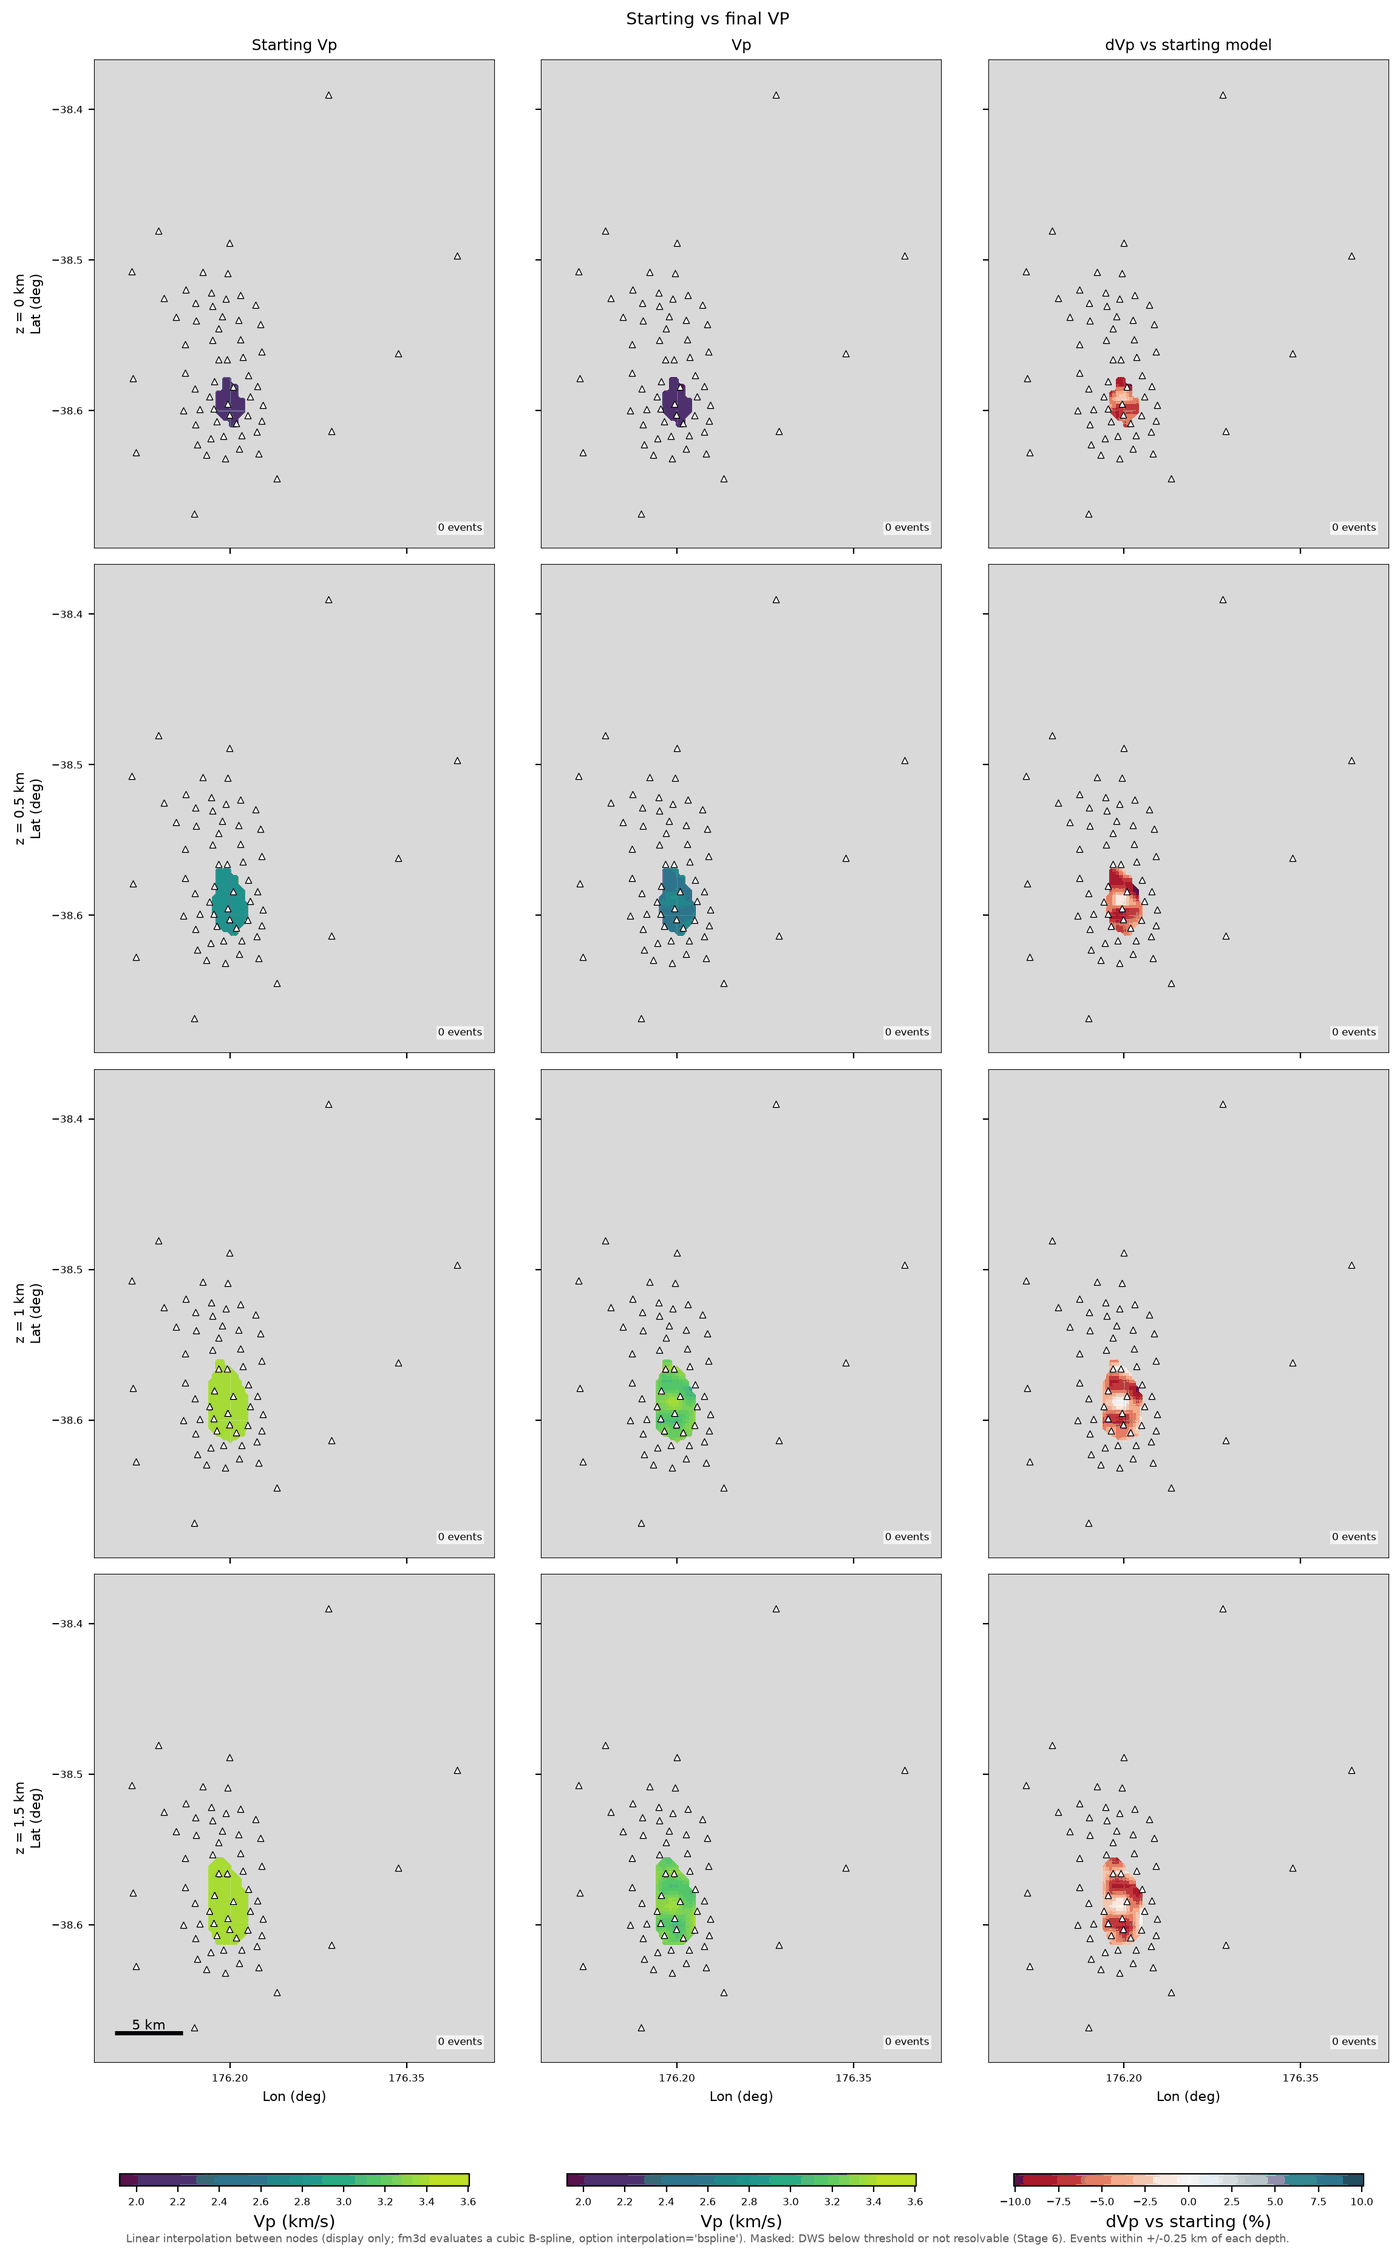
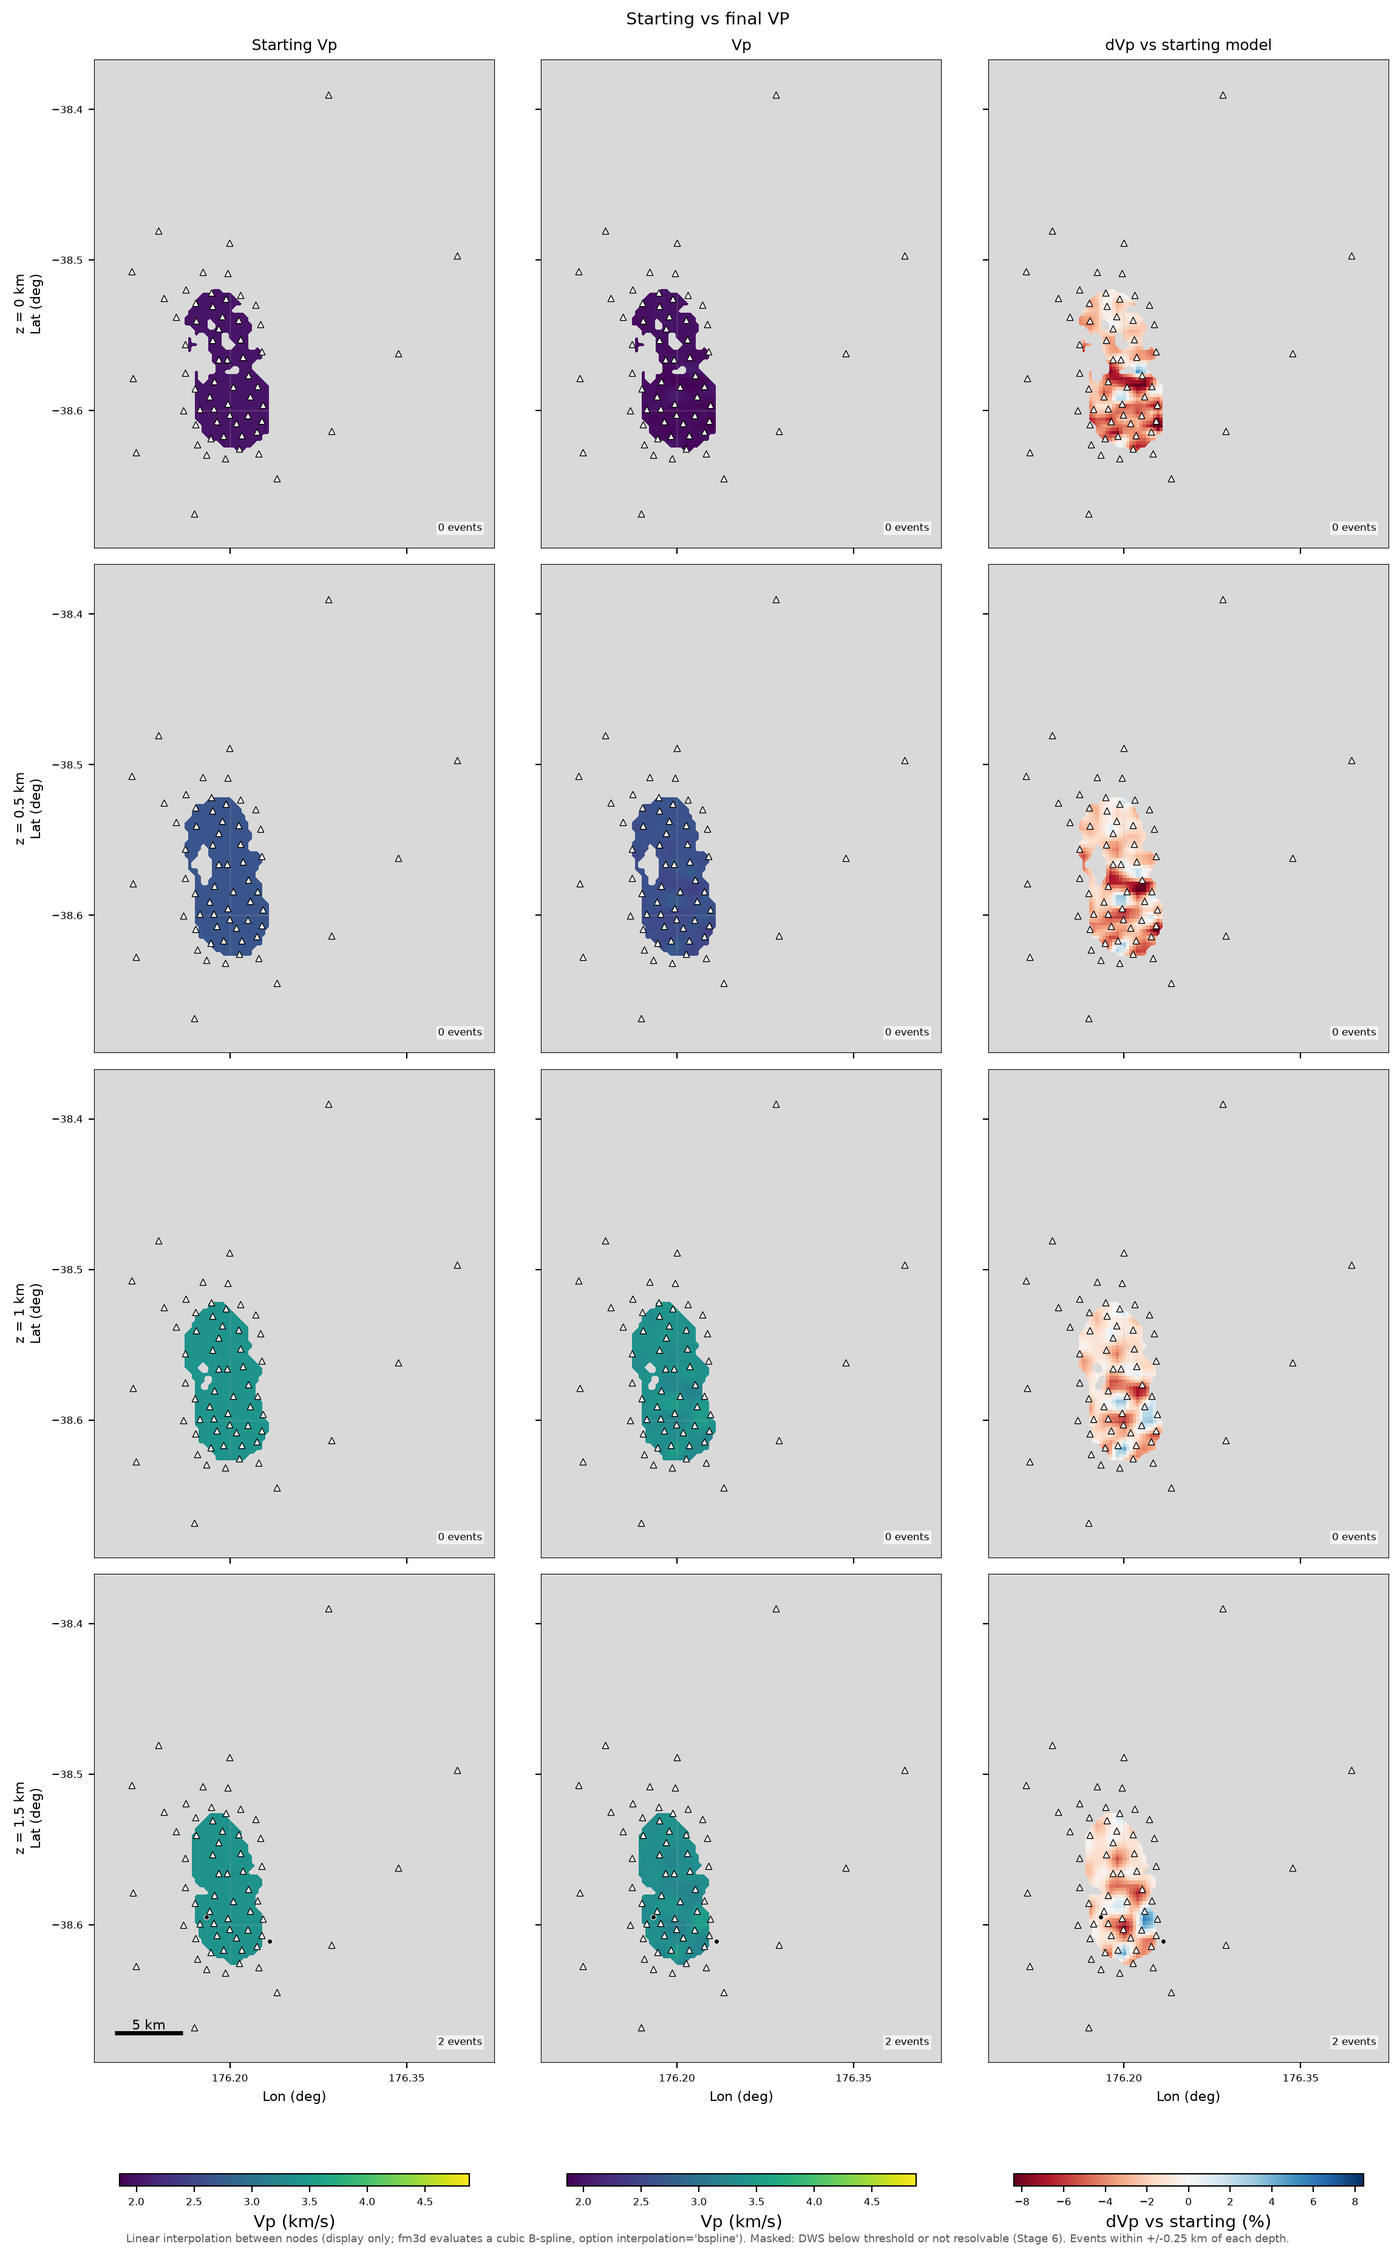
Final consistent project rerun: refresh tutorial, figures and e2e baseline; absolute OSV_TOOLS_DIR (osv-3p8.9)

diff --git a/tests/test_tools.py b/tests/test_tools.py
@@ -173,3 +173,11 @@ def test_venv_prefix_search(tmp_path, monkeypatch):
     exe = make_exe(tmp_path / "venv" / "bin" / "osv-tools", "velest", "exit 0")
     monkeypatch.setattr("sys.prefix", str(tmp_path / "venv"))
     assert which_tool("velest") == exe
+
+
+def test_relative_tools_dir_is_absolute(tmp_path, monkeypatch):
+    make_exe(tmp_path / "rel_bin", "velest", "exit 0")
+    monkeypatch.chdir(tmp_path)
+    monkeypatch.setenv("OSV_TOOLS_DIR", "rel_bin")
+    p = which_tool("velest")
+    assert p.is_absolute() and p.name == "velest"

diff --git a/src/osv/tools.py b/src/osv/tools.py
@@ -170,7 +170,7 @@ def _is_exec(p: Path) -> bool:
 def _search_dirs() -> list[Path]:
     dirs: list[Path] = []
     if os.environ.get(ENV_TOOLS_DIR):
-        dirs.append(Path(os.environ[ENV_TOOLS_DIR]).expanduser())
+        dirs.append(Path(os.environ[ENV_TOOLS_DIR]).expanduser().resolve())
     if os.environ.get("CONDA_PREFIX"):
         dirs.append(Path(os.environ["CONDA_PREFIX"]) / "bin" / "osv-tools")
     # Environment the interpreter runs from (venv installs by install.sh --venv work

diff --git a/docs/tutorial.md b/docs/tutorial.md
@@ -144,16 +144,16 @@ observed rays with `fm3d` as a forward check.
 | Propagation grid | 55 x 223 x 184 (2.26 M nodes, 0.167 km) |
 | Sources / receivers / P observations | 65 / 62 / 1847 |
 | Vp range | 2.02-5.01 km/s |
-| Forward RMS of the starting model | 0.133 s (0.042 s after removing the mean of +0.12 s) |
+| Forward RMS of the starting model | 0.056 s (0.035 s after removing the mean of +0.043 s) |
 
 ![Vp slices of the starting model](img/build_vp_slices.png)
 
 Look at: `grid_geometry`, `vp_slices`, `section_*`, and above all the forward-check figures
 `residual_histograms`, `residual_distance` and `station_residuals`. A starting model should
-fit the picks about as well as VELEST does (0.042 s here once the mean offset is removed); a
+fit the picks about as well as VELEST does (0.042 s; here 0.056 s, or 0.035 s once the mean offset is removed); a
 much worse fit means a problem with coordinates, the depth datum or station delays. Here the
-mean residual is +0.12 s, which the *residual_bias* warning flags; the inversion in Stage 4 takes
-the RMS from 133 to 57 ms. Details: [Stage 3](stage3_model.md).
+mean residual is +0.043 s, which the *residual_bias* warning flags; the inversion in Stage 4 takes
+the RMS from 56 to 33 ms. Details: [Stage 3](stage3_model.md).
 
 Typical warnings:
 
@@ -161,9 +161,9 @@ Typical warnings:
   the data cannot constrain such a fine grid; the regularisation will do most of the work.
 * *"21 receiver(s) were above the interpolated surface; surface lifted locally"* - station
   elevations versus the smoothed surface (`model3d.surface_smoothing_km`).
-* *"7 P residuals beyond 5 robust standard deviations"* - look at the stations involved.
-* *"P residuals have mean +0.120 s"* and *"mean P residuals correlate with the VELEST station
-  delays with r = 0.18"* - the starting model is systematically fast for these picks; see
+* *"6 P residuals beyond 5 robust standard deviations"* - look at the stations involved.
+* *"P residuals have mean +0.043 s"* and *"mean P residuals correlate with the VELEST station
+  delays with r = 0.15"* - the starting model is systematically fast for these picks; see
   [borehole stations and station delays](troubleshooting.md#borehole-stations-and-station-delays)
   for why the VELEST delays are still applied.
 
@@ -181,10 +181,10 @@ inversion with the chosen values (or the ones you fix in `fmtomo`) and relocates
 | | Result |
 |---|---|
 | Chosen damping / smoothing (P) | 0.05 / 10 (maximum curvature, 14 sweep runs) |
-| RMS start to final | 133 to 56.7 ms (57.4% misfit reduction, 81.9% variance reduction) |
-| Reduced chi-squared | 10.3 |
-| Median hypocentre shift | 0.30 km |
-| Covered fraction of nodes (DWS) | 2.7% |
+| RMS start to final | 56.3 to 32.6 ms (42.1% misfit reduction, 66.7% variance reduction) |
+| Reduced chi-squared | 2.8 |
+| Median hypocentre shift | 0.11 km |
+| Covered fraction of nodes (DWS) | 2.6% |
 
 ![L-curve for damping](img/tradeoff_lcurve_damping.png)
 
@@ -200,11 +200,11 @@ Typical warnings:
 * *"the corner (0.05) is next to the edge of the swept range 0.01..1000"* and the same for the
   smoothing (10, range 1..1000) - the L-curve corner may lie outside the sweep; widen it or set
   the values yourself.
-* *"12 of 14 sweep runs still changed their misfit by more than 2%"* - the sweep iterations are
+* *"14 of 14 sweep runs still changed their misfit by more than 2%"* - the sweep iterations are
   few (`fmtomo.tradeoff.iterations`); the L-curve is indicative.
 * *"misfit increased after iteration 3"* - the linearised step overshoots in the last
   iterations; raise the damping or the smoothing, or stop earlier.
-* *"reduced chi-squared is 10.31, not near 1"* - the stated pick uncertainties are smaller than
+* *"reduced chi-squared is 2.82, not near 1"* - the stated pick uncertainties are smaller than
   the achievable fit; the inversion is an RMS reduction, not a statistical fit.
 
 ## Stage 5: analyse the inversion (`osv analyse`, 11 s)
@@ -216,14 +216,14 @@ osv analyse -c config.yaml
 Computes perturbation statistics, produces the figures and the exports (NetCDF, CSV, VTK) and masks everything the data cannot see (`plotting.dws_mask_threshold`).
 
 Look at: `slices_vp`, `section_a_a`, `compare_start_final_vp`, `variance_reduction`,
-`residual_vs_azimuth` and `station_residual_map`. Only 2.7% of the Vp volume has DWS of at least
+`residual_vs_azimuth` and `station_residual_map`. Only 2.6% of the Vp volume has DWS of at least
 0.1 here, so most of the model is masked; that is the data, not a bug. After running Stage 6, run
 `osv plot analyse -c config.yaml` to add the `_resolvable` figures that show only what the
 resolution tests recovered. Details: [Stage 5](stage5_analysis.md).
 
 Anomalies in the shallow (to about 2 km) core of the array are the only part of the model that
 passes both the DWS mask and the resolution tests; this is the perturbation relative to the 1-D
-model, masked to the resolvable volume (0.3% of all nodes):
+model, masked to the resolvable volume (1.4% of all nodes):
 
 ![dVp relative to the 1-D model, resolvable volume only](img/analyse_dvp_resolvable.png)
 
@@ -241,8 +241,8 @@ regularisation. Six tests ran, all succeeded.
 
 | | Result |
 |---|---|
-| Covered nodes (P) | 2350 |
-| Resolved fraction of covered nodes | 28% at 2 km, 51% at 3 km (shallower than 2.1 km: 40% / 63%; 2.1-5.3 km: 8% / 30%) |
+| Covered nodes (P) | 2257 |
+| Resolved fraction of covered nodes | 26% at 2 km, 50% at 3 km (shallower than 2.1 km: 36% / 61%; 2.1-5.3 km: 5% / 28%) |
 | Median resolved scale | 2 km (smallest anomaly of interest 1.5 km) |
 
 ![Resolved scale](img/resolution_resolved_scale.png)
@@ -265,16 +265,16 @@ model, using the same picks.
 
 | | Result |
 |---|---|
-| Median RMS, 1-D / 3-D | 20.9 / 15.7 ms (improvement 7.3 ms, 35%) |
-| Events better / worse in 3-D | 83% / 17% |
-| Wilcoxon p-value | 0.064 (one-sided 0.032) |
+| Median RMS, 1-D / 3-D | 20.9 / 15.8 ms (improvement 7.8 ms, 37%) |
+| Events better / worse in 3-D | 83% / 8% (one tie) |
+| Wilcoxon p-value | 0.027 (one-sided 0.013) |
 
 ![1-D versus 3-D RMS](img/validation_rms_scatter.png)
 
 Points below the 1:1 line in `validation_rms_scatter` are events that fit better in 3-D. A low
 fraction of better events, or a high p-value, means the 3-D model does not generalise. With
-only 12 events the test has little power: 10 of 12 events improve, but p = 0.064 is not below
-0.05 on the two-sided test. Details:
+only 12 events the test has little power: 10 of 12 events improve and p = 0.027 is below
+0.05 on the two-sided test, but a single event can still change that. Details:
 [Stage 7](stage7_validation.md).
 
 ## The project report (`osv report`)
@@ -285,7 +285,7 @@ open runs/index.html
 ```
 
 Combines everything: pipeline status (9 of 9 stages complete here), all failures and warnings
-grouped by stage (0 failures and 26 warnings in the example), headline numbers and key
+grouped by stage (0 failures and 25 warnings in the example), headline numbers and key
 figures. `10_report/summary.md` is a compact Markdown version to paste into notes.
 See [reporting](reporting.md).
 

diff --git a/docs/troubleshooting.md b/docs/troubleshooting.md
@@ -87,7 +87,7 @@ fine. Increase `model3d.grid.dx_km`/`dy_km`/`dz_km` or accept that the model is 
 
 **L-curve corner at the edge of the sweep / chi-squared far from 1 / unconverged sweep.** Widen
 the swept range, raise `fmtomo.tradeoff.iterations`, or set `damping`/`smoothing` manually. A
-reduced chi-squared of about 10 (as in the example) means the stated pick uncertainties are too small
+reduced chi-squared of about 3 (as in the example) means the stated pick uncertainties are too small
 or the 3-D model cannot explain the picks; interpret the model as a smooth correction to the 1-D
 model.
 
@@ -99,10 +99,12 @@ borehole stations be excluded?** FMTOMO cannot invert for station terms. The def
 times, so the station-scale near-surface signal, which a 0.5 km grid cannot resolve, does not
 have to be explained by the model. On rk-nm-2017 the station mean residuals correlate with the
 VELEST delays at r = 0.92. The stage 3 forward check may still warn about a mean residual and a
-weak correlation (r = 0.18) of the starting model's residuals with the delays; that compares
+weak correlation (r = 0.15) of the starting model's residuals with the delays; that compares
 different quantities and does not mean the delays should be dropped.
 
-The example was run three times with the same Stage 1-2 and 5 results (the scripts and logs are
+The example was run three times (before the origin-time fix of osv-jac.13, so the absolute numbers differ from the
+[tutorial](tutorial.md), which was rerun afterwards: P RMS 56.3 to 32.6 ms, variance reduction 66.7%; the
+comparison between the columns is what matters) with the same Stage 1-2 and 5 results (the scripts and logs are
 in `build/ab/`; `A` is the default):
 
 | | A: delays applied | B: delays off | C: `velest_station_delays_exclude: borehole` |
@@ -131,7 +133,7 @@ in a copy of the config with a separate `project.workdir`, link the Stage 1-2 an
 
 ## Poor resolution
 
-"Only 2.6% of the volume has DWS >= 0.1" and "10% of the covered volume is resolved" (the
+"Only 2.6% of the volume has DWS >= 0.1" and "50% of the covered volume is resolved at some tested scale" (with only 26% at 2 km) (the
 example) indicate sparse ray coverage. Do not interpret features outside the resolvable mask,
 which the analysis figures draw once `osv resolution` has run. To improve: use more events or
 stations, relax `data_selection` thresholds (carefully), use a coarser grid
